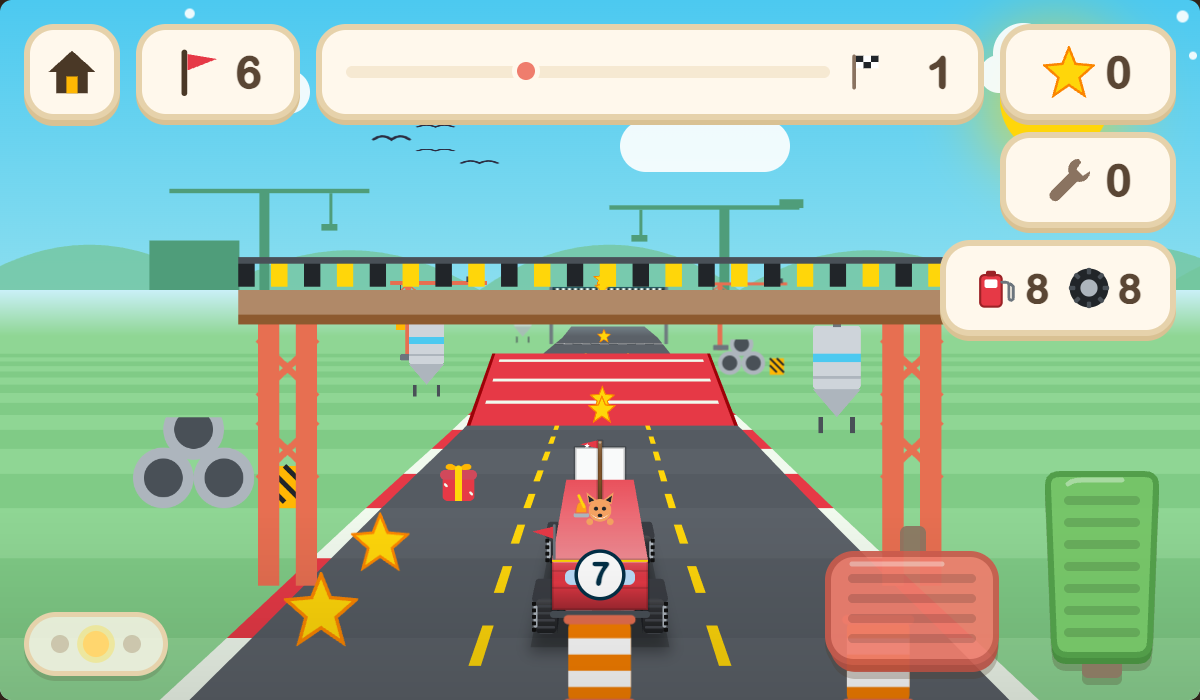
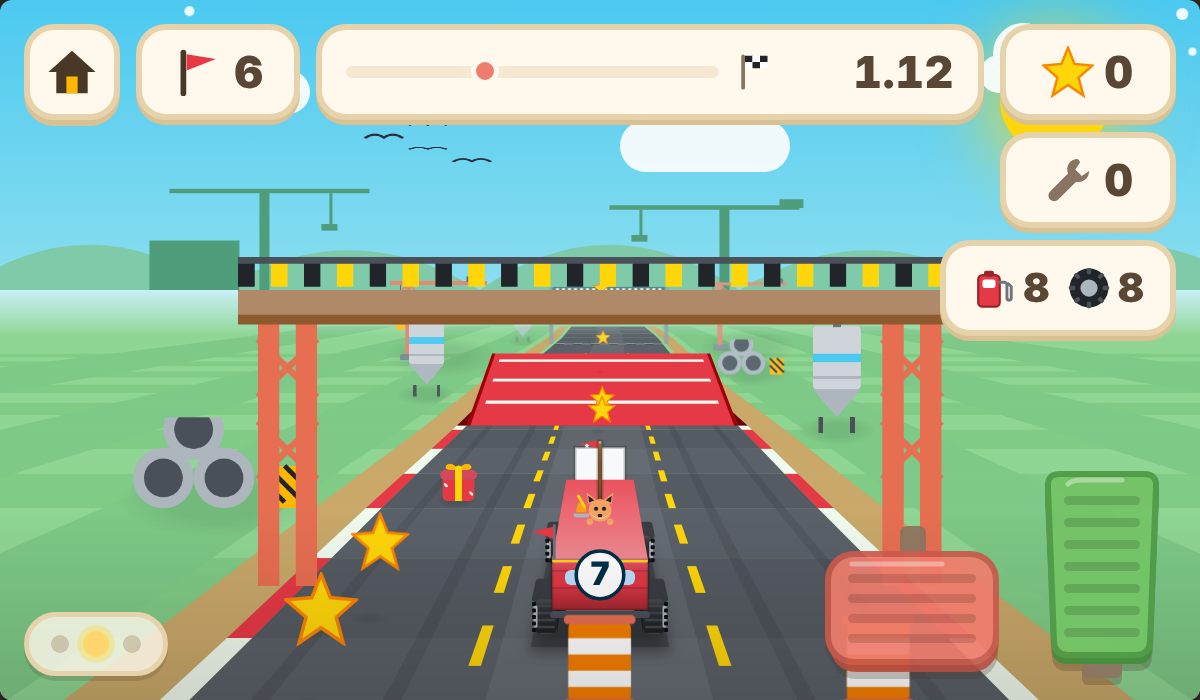
v13.3.0: the AAA round, integrated
Five squash-merged features (camera dynamics and impact juice, steering
yaw, prop shadows and haze, ground texture and ramp wedges, engine
voices with gears, pass-by doppler and adaptive music beds) with the
docs, README, task log and screenshots brought up to date and the suite
counts in tests/README.md re-baselined from the runner.
23 suites, 421/421, lint 0.

Claude-Session: https://claude.ai/code/session_016ck1aPGLVyXfjAcF2qTzon

diff --git a/index.html b/index.html
@@ -1736,7 +1736,7 @@ html, body { background: #2f241a; }               /* warm dark letterbox, was na
 /* ===== 0. VERSION ===== */
 /* Bumped with each release alongside package.json; shown as a tiny numeral row in the
    grown-ups (profile) panel. The update gate fingerprints the code itself, not this. */
-const APP_VERSION = "13.2.2";
+const APP_VERSION = "13.3.0";
 document.getElementById("appVersion").textContent = APP_VERSION;
 
 /* ============ 1. STAGE ============ */

diff --git a/tests/README.md b/tests/README.md
@@ -1,6 +1,6 @@
 # Vroom test suites
 
-Twenty-three Playwright regression suites (399 checks) that drive the real game in headless
+Twenty-three Playwright regression suites (421 checks) that drive the real game in headless
 Chromium. They are the gate for every change: CI runs them on each push and pull request.
 
 ## Run everything
@@ -27,11 +27,11 @@ playwright-core's download), `VROOM_URL` (use a server you already run instead o
 built-in one, e.g. `python3 -m http.server 4173` then
 `VROOM_URL=http://localhost:4173/index.html npm test`).
 
-- `verify.cjs` — garage/shop/economy/levels/map/persistence core loop, steering yaw (38)
-- `polish-check.cjs` — kid-UX round: locks, tags, magnet, headlights, celebrate, `prefers-reduced-motion` (decorative keyframes off, no confetti pieces, short iris) (16)
+- `verify.cjs` — garage/shop/economy/levels/map/persistence core loop, steering yaw (40)
+- `polish-check.cjs` — kid-UX round: locks, tags, magnet, headlights, celebrate, `prefers-reduced-motion` (decorative keyframes off, no confetti pieces, short iris) (19)
 - `damage-check.cjs` — damage/repair/upgrades/keyboard (20)
 - `free-check.cjs` — capsules, free drive, time tiers (14)
-- `feel-check.cjs` — game feel: dynamics, hit-stop, choreography, iPad shell (12)
+- `feel-check.cjs` — game feel: dynamics, hit-stop, choreography, iPad shell (18)
 - `worlds-check.cjs` — 12 worlds, movers, gravity, world map, premium content, the 13.3 ground painter (shoulder + field tones, road crown on all 12 worlds, ramp side walls, quad budget) (25)
 - `album-check.cjs` — sticker album: buddies, badges, photos with world backdrops + stamps, the peek card for photos and stickers, muddy flag (15)
 - `profile-check.cjs` — 3 kid profiles, save codes, QR round-trip via jsQR (14)
@@ -46,7 +46,7 @@ built-in one, e.g. `python3 -m http.server 4173` then
 - `number-check.cjs` — race number: the number tile leads the sticker tab (400, greyed when poor), keypad rules (two digits, leading zeros trimmed, backspace, clear), OK pays 400 and draws the roundel on the flank, sticker + number share the panel at 80% scale, rear view, same-number and broke-wallet rules, free removal, reload + v3 tail + 12.2 code decode, photo, malformed stored value dropped, 64px keys, the race car's painted slot (13; honours `VROOM_URL`)
 - `title-check.cjs`: start screen + daily gift: title scene active on boot (GO >= 180 stage px, car + emblem, avatar, zero text), pulsing gift badge on GO while unclaimed, car honk, GO to the garage, the capsule on the wall above the dice (88px at x=1086 / top 180), opening pays 15..40 stars or an unowned buddy with confetti and stamps `progress.lastGift`, a second open gives nothing, reload keeps it claimed, lastGift = yesterday brings it back, `?garage` and `vroom.skipTitle` skip the title, lastGift never rides in a save code, reduced motion skips the pop-ins (13; honours `VROOM_URL`)
 - `ghost-check.cjs` — ghost race: a first run stores a sampled trace, a replay spawns the translucent twin that follows it through the projector (lane and depth match the recording at a known time), slower runs keep the old ghost and faster ones replace it with the new-best flourish, the signed gap chip (hidden with no ghost), the twin fades after its own finish, ghosts survive a reload, stay out of the full save code and malformed ones are dropped (16; honours `VROOM_URL`)
-- `upkeep-check.cjs` — fuel + tires + shine: full gauges on a fresh save, the combined HUD chip that splits into red singles when a gauge is low, burn per unit of road (tread at half rate), no burn in free drive or the parade, dry-tank crawl speeds, bald-tire lane lag, hit scuffs tread, shine bonus (+50%) and its sticker, muddy = no shine, workbench fill-up / tire tiles with per-unit prices, partial fills, deny shakes, v3 save-code tail + tail-less decode, reload + pre-12.2 save defaults, the dice/map/GO column geometry (21; honours `VROOM_URL`)
+- `upkeep-check.cjs` — fuel + tires + shine: full gauges on a fresh save, the combined HUD chip that splits into red singles when a gauge is low, burn per unit of road (tread at half rate), no burn in free drive or the parade, dry-tank crawl speeds, bald-tire lane lag, hit scuffs tread, shine bonus (+50%) and its sticker, muddy = no shine, workbench fill-up / tire tiles with per-unit prices, partial fills, deny shakes, v3 save-code tail + tail-less decode, reload + pre-12.2 save defaults, the dice/map/GO column geometry (24; honours `VROOM_URL`)
 - `events-check.cjs`: surprise events on the map: a frozen calendar (`window.__today`) gives the same three picks across reloads and other dates move them; the sleeping dino sits on an unlocked, non-frontier level, naps mid-lane on that road (not hard, not soft), wakes on a bump or a honk with no damage and drops 5 bonus stars outside the level total; rainbow day only after level 30, finishing the marked level awards `p:rainbowshine` once (second finish no duplicate), the paint renders in both views, grows a 24th strip tile, rides the v3 save code and a reload; weather day forces the borrowed particles on every level of the badged world and nowhere else; the today chip shows the day number; no date = no events (23; honours `VROOM_URL`)
 - `course-check.cjs`: wild courses (v12.9): corkscrews on every world's corkscrew level and every finale from world 2 (two opposite twists from world 3), the roll math (0 / pi / 2pi, monotonic), stars only inside a twist (a helix of >= 8, no arch), level before it and rolling only inside, mid-twist the sky stays up and no sprite turns while the car itself is upside down, the whoosh in and the level landing after; hard turns on the 13 switchback / zigzag levels with chevron boards on each turn's outside verge and a squeal at speed; 9 roller levels of >= 3 big hills; mega ramps and hop chains, the one launch rule (standard ramp unchanged, mega capped), every level keeps a jump and no ramp crosses a twist, a real mega launch lands inside its zone; the speed-linked mixer drum (T2.3); reduced motion drops the roll and the drum, no ramp ever stacks on another or lands past the flags; a hill crest clips what stands behind it (23; honours `VROOM_URL`)
 - `life-check.cjs` — garage life + buddy reactions: the idle putter node (52 Hz square, 2 Hz LFO) runs only while the garage is active and follows quiet mode, buddy blink / yawn hooks on all 10 buddies, beacon / flag / booster / hover idle animations, wheel settle wobble on a new body or wheels, hood tap (opens, clank via a `tone` spy, closes, buddy hops, no honk), wheel tap spin, body tap still honks, >= 64px hit regions, chase-cam buddy cheer / duck / wave from the star-streak, `applyDamage` and `finishLevel` hooks, no-buddy no-ops, `prefers-reduced-motion` stops every idle animation (17; honours `VROOM_URL`)
@@ -63,11 +63,12 @@ click stability check.
 
 | Suite | Checks | Covers |
 |---|---|---|
-| `verify.cjs` | 38 | core loop: garage inventory and 64 px touch floor, shop/economy, level invariants, map, persistence, steering yaw views and bindings |
-| `polish-check.cjs` | 16 | kid-UX round: locks, price tags, magnet, headlights, celebrate choreography |
+| `verify.cjs` | 40 | core loop: garage inventory and 64 px touch floor, shop/economy, level invariants, map, persistence, steering yaw views and bindings |
+| `garage-check.cjs` | 19 | redesigned garage: control budget, category tabs and the shuffle at the tab row end, workbench strip order (wash first), GO and map, gift on the rhythm |
+| `polish-check.cjs` | 19 | kid-UX round: locks, price tags, magnet, headlights, celebrate choreography |
 | `damage-check.cjs` | 20 | damage tiers, repair, upgrades, keyboard controls |
 | `free-check.cjs` | 14 | capsules and prizes, free drive, time-medal tiers |
-| `feel-check.cjs` | 12 | game feel: body dynamics, hit-stop, celebrate pacing, iPad shell metas |
+| `feel-check.cjs` | 18 | game feel: body dynamics, hit-stop, celebrate pacing, iPad shell metas |
 | `worlds-check.cjs` | 25 | 12 worlds: level invariants, world hazards, movers, gravity, map, unlock chain, world bonus, golden capsule, premium shop, free-drive tour, ground painter (shoulder and field tones, crowned road on every world, ramp side walls, quad budget) |
 | `album-check.cjs` | 15 | sticker album: buddies, badges, world-backdrop photos, peek card, muddy flag |
 | `profile-check.cjs` | 14 | 3 kid profiles, save codes, scan-to-open QR decoded byte-exact with jsQR across version boundaries |
@@ -81,7 +82,7 @@ click stability check.
 | `course-check.cjs` | 23 | wild courses: corkscrews (roll math, helix, rendering, reduced motion), hard turns + chevrons, roller hills and crest occlusion, mega ramps and hop chains, the shared launch rule, the speed-linked mixer drum |
 | `title-check.cjs` | 13 | start screen: title scene on boot, 180 px GO, gift badge, honk; daily gift: once-a-day capsule above the dice, 15..40 stars or an unowned buddy, claimed state across reloads, next-day return, the `?garage` / `vroom.skipTitle` skips, reduced motion |
 | `ghost-check.cjs` | 16 | ghost race: trace recording, replay sprite follows the trace, slower keeps / faster replaces, gap chip, fade at the line, reload, save-code exclusion, malformed ghost dropped |
-| `upkeep-check.cjs` | 21 | fuel and tire wear, the combined HUD chip and its low-gauge split, dry-tank crawl, bald-tire grip, shine bonus, workbench fill-up and tire tiles, save-code tail, legacy defaults, garage column geometry |
+| `upkeep-check.cjs` | 24 | fuel and tire wear, the combined HUD chip and its low-gauge split, dry-tank crawl, bald-tire grip, shine bonus, workbench fill-up and tire tiles, save-code tail, legacy defaults, garage column geometry |
 | `events-check.cjs` | 23 | surprise events: date-seeded picks, sleeping dino marker + road prop (wake, 5 bonus stars, no damage), rainbow day + the secret rainbow-shine paint (once, both views, save code, reload), weather day particles, today chip, no-date fallback |
 | `life-check.cjs` | 17 | garage life: idle putter lifecycle and quiet mode, buddy blink / yawn, animated extras, wheel settle, hood and wheel tap toys, road buddy cheer / duck / wave hooks, reduced motion |
 | `fairness-check.cjs` | 9 | two headless bots drive all 120 levels through the real collision code: "smart" must finish every level with ≥45% of the stars and ≤4 hard hits; "lazy toddler" (centre lane, gas only) must finish every level and find ≥15% of the stars on levels 1-20; world 1 stays gentle. `--table` prints per-level results, `--hits` each hard hit |

diff --git a/docs/ARCHITECTURE.md b/docs/ARCHITECTURE.md
@@ -97,7 +97,7 @@ head-on in v10, so the level generator, physics and collision code never changed
 | Constant | Value | Meaning |
 |---|---|---|
 | `HORIZON` | 290 | vanishing line on the stage |
-| `CAM_D` | 520 | camera distance behind the car; scale 1 at the car |
+| `CAM_D` | 520 (`CAM_D0`) | camera distance behind the car; scale 1 at the car. Per frame `renderWorld` sets `CAM_D = CAM_D0 / fovK` (the lens widens up to 7% at full speed, 13.3) and restores it |
 | `CAM_H` | 360 | camera height; the car's ground line lands at y=650 |
 | `LANE_W` | 240 | lane spacing at the car's depth |
 | `CAM_FOLLOW` | 0.6 | how far the camera slides with a lane change (the car moves the other 40%) |
@@ -113,7 +113,22 @@ sy = HORIZON + (CAM_H + camElev − elevAt(carX + z) − h) · s
 
 (`proj()` for the canvas ground plane, the same math inline for sprites). Sprites get
 `translate(sx, sy) scale(s·k)`, a z-index of `20000 − z` (hit things pop over the car at
-25000), and opacity fading over the last `FADE` units.
+25000), and opacity fading over the last `FADE` units. Each sprite wrapper also holds a blob
+shadow (`div.shd`, radial gradient sized from `SHADOW_W` or the art width, smaller and fainter
+with `h`, none for `NO_SHADOW` types) and a haze overlay (`div.hz`, the world's haze colour
+masked by the sprite's own SVG through one shared stylesheet rule per art string, stepping from
+35% of `DRAW_FAR` to 0.45 at the fade band); both ride the transform and the crest clip.
+
+Camera dynamics (13.3): `camX` follows the lane target through a damped spring (`CAM_W`,
+`CAM_Z`, settles in about 350 ms, so the car visibly swings ahead of the view), `fovK` eases
+toward `1 + FOV_PUNCH` with speed, a landing dips the view (`DIP_*`, scaled by fall speed) and a
+hit runs a decaying 2D shake (`startShake(dmg)`, applied by `applyCamFx` as one transform on
+`#roadCanvas` and `#world`, never the HUD). `camTick(dt)` runs all of it before `renderWorld`;
+under reduced motion it snaps the follow and zeroes the rest. The car itself yaws toward the
+lane it heads for while `laneVis` glides (`tickYaw`, `carYaw` up to `YAW_MAX = 0.18`): `vp`
+rotates car-space x/z about the rear axle (`vrot`) before the perspective, `faceVis` picks the
+visible side faces from the real camera position, and the front tires steer with it;
+`setCarView(q, ys)` caches views on a quarter-lane x yaw-step grid. No tilt, skew or roll.
 
 ### Curves
 
@@ -177,9 +192,15 @@ the sky and a dip hides it. World amplitudes: 0 for construction, rain and beach
 ### The ground plane
 
 `drawRoad(carX)` repaints `#roadCanvas` (2x backing store) every frame: sky haze at the
-horizon, grass bands alternating every `SEG = 160` units, asphalt, rumble strips, lane
-dashes, sloped ramps, the checkered finish stripe and the ground shadow under a jumping car,
-all as `quad()`s of four `proj()`ed corners with the world's `ROAD_PAL[w]` palette. The road paints back to
+horizon, grass bands alternating every `SEG = 160` units, lateral field strips in two extra
+tones (`fields` extents mirrored both sides: crop rows on the farm, dune ridges, drifts, lava
+cracks), a dirt shoulder outside each rumble strip, asphalt with a crown highlight down the
+centre and faint wheel-track wear in the outer lanes, lane dashes, sloped ramps with a
+camera-facing side wall and a lip shadow, the checkered finish stripe with a near edge, and the
+ground shadow under a jumping car, all as `quad()`s (batched into one fill per tone where they
+share a colour; `roadQuadN` counts subpaths, budget 700) of four `proj()`ed corners with the
+world's `ROAD_PAL[w]` palette. `groundTones(P)` derives the new keys (`shoulder`, `field`,
+`fields`, `crown`, `wear`) from the base palette once per world when a pack does not set them. The road paints back to
 front, so a crest hides the road behind it on its own; everything else is clipped against `OCC`, a per-frame
 running minimum of the ground's screen y by depth (`buildOcc`, `occAt(z)`): `placeSprite` cuts a sprite at the
 crest line with a `clip-path` in its own pre-transform pixels, and ramps, the finish stripe and the hoops draw
@@ -299,10 +320,22 @@ workhorse (an oscillator with a frequency glide and an exponential decay); `nois
 filtered noise. `sfx.*` are the UI/world sounds, `HONKS[body]` the per-body horn voices.
 Quiet mode multiplies every voice by `volScale() = 0.22`.
 
-The engine (`engineStart`/`engineSet`) is two sawtooth oscillators detuned 9 cents through a
-low-pass swept from 260 Hz to 1360 Hz with speed, plus a looping noise buffer through a
-band-pass at 1100 Hz that fades in over the top 40% of the speed range as wind; all
+The engine (`engineStart`/`engineSet(v, gas, brake)`) is a voice from `ENGINE_VOICES` picked
+by body family (`ENGINE_FAMILY`: trucks, race cars, tractors, whining rockets and UFOs, a
+default): a sine sub, two detuned saws through a resonant low-pass (the growl, with a chug LFO
+for tractors), a high harmonic and wind from the shared noise buffer. Speed runs through 3-4
+virtual gears with hysteresis (`GEAR_HYST`): a shift drops the pitch back with a throttle dip
+and a clunk, braking shifts down, the gas opens the filter. `sfx.passby` plays a panned falling
+whoosh when a sizeable prop passes the bumper at speed (`passByTick`, rate-limited). All
 parameters move with `setTargetAtTime` to avoid zipper noise.
+
+Music: `MUSIC[w]` is a per-world bed (bpm, root, bass / arp / percussion step strings in the
+jingle's note vocabulary) scheduled with lookahead on the audio clock (`musicPump` every
+`MUSIC_PUMP_MS`, `MUSIC_LOOKAHEAD` ahead, first note after the jingle). The bass always plays;
+the arp and percussion fade in above about 60% speed; a riser sweeps while airborne or in a
+corkscrew; the bed ducks to `MUSIC_DUCK` at the finish, stops in `worldAudioStop`, and is silent
+in quiet mode. Ambience beds drop to `AMB_UNDER_MUSIC` while it plays. The `MIX` comment in the
+audio section documents every gain stage.
 
 Per world: `JINGLES[w]` (a start sting), `AMBIENCE[w]` (a looping bed built from `ambNoise`,
 `ambLFO`, `ambEvery`, `ambPing`), `STAR_SCALES[w]` + `STAR_BASE[w]` (the ratio ladder each

diff --git a/README.md b/README.md
@@ -25,7 +25,7 @@
 
 - **Build it, then drive it.** 23 bodies, 14 wheel sets, 24 paints (one of them a secret), 8 flank decals, 12 bolt-on extras, a race number you type on a keypad, and 10 buddies, every one of them drawn in code. The exact car you build in the garage is the car you see from behind on the road, party hat and all.
 - **Twelve worlds, 120 levels.** Construction, sunset, night, rain, snow, desert, beach, space, volcano, candy land, deep sea and sky kingdom. Each is a place with its own roadside, weather, hazards, hills, jingle, ambience and star-chime scale.
-- **A road that bends and rolls.** An OutRun-style chase cam with eased curvature stretches and cosine hills, three lanes, a gas pedal, a brake pedal, and steering by swiping the road. Corkscrews send the car barrel-rolling through a tunnel of striped hoops, hard turns come with red chevron boards and howling tires, roller levels stack big hills back to back, and the jumps run from little green hop kickers to a big red mega ramp.
+- **A road that bends and rolls.** An OutRun-style chase cam with eased curvature stretches and cosine hills, three lanes, a gas pedal, a brake pedal, and steering by swiping the road. The camera swings through lane changes, widens with speed and shakes on a hit; the car turns its nose into the lane it heads for; every prop stands on its own shadow and fades into the haze; corkscrews send the car barrel-rolling through a tunnel of striped hoops, hard turns come with red chevron boards and howling tires, roller levels stack big hills back to back, and the jumps run from little green hop kickers to a big red mega ramp.
 - **Levels with a signature.** Every level is sequenced from a library of 40 formations so level 7 feels like "the snake-trail level" and level 8 like "the barrel-bowling level". Two headless bots drive all of them in the test suite to prove each is fair.
 - **Race yourself.** Your fastest run on every level rides along as a translucent ghost next time, with a gap chip and a bigger medal when you beat it.
 - **Something new every day.** A gift capsule in the garage once a day, and three surprises on the map seeded from the date: a sleeping dino to honk awake, a rainbow day with a secret paint, a weather day. The garage car idles, blinks and yawns; tap the hood or a wheel.
@@ -114,7 +114,7 @@ python3 -m http.server 4173     # then open http://localhost:4173/
 
 There is no build. Edit `index.html`, reload.
 
-The test suite is 23 Playwright suites (399 checks) that drive the real game in headless Chromium: economy, physics, worlds, album, profiles, save codes, the wash, fuel and tires, the race number, the title screen and daily gift, the ghost race, garage life, the map surprises, the update gate, and the fairness bots that drive all 120 levels.
+The test suite is 23 Playwright suites (421 checks) that drive the real game in headless Chromium: economy, physics, worlds, album, profiles, save codes, the wash, fuel and tires, the race number, the title screen and daily gift, the ghost race, garage life, the map surprises, the update gate, and the fairness bots that drive all 120 levels.
 
 ```bash
 npm ci                                   # playwright-core + jsqr, test-only

diff --git a/TASKS.md b/TASKS.md
@@ -146,6 +146,14 @@
 
 - [x] T25.4: Blob shadows under every prop (`div.shd` in the sprite wrapper: radial gradient, footprint from `SHADOW_W` or the art width, fainter and smaller with height, none for flat props, arches or the ghost) and atmospheric haze on far sprites (`div.hz` masked by the sprite's own SVG via one shared stylesheet rule per art string, stepping to 0.45 of the world haze colour at the fade band). Both ride the crest clip-path. polish-check 19. 23 suites, 398/398.
 
+## v13.3.0 (2026-10-09, user-directed: "implement all" of the AAA list, rounds 2 to 5)
+
+- [x] T25.1: Camera dynamics and impact juice. Damped lateral follow (`CAM_W`, `CAM_Z`), lens widening with speed (`fovK`, `CAM_D = CAM_D0 / fovK` per frame), landing dip, decaying 2D hit shake on the road layers only (`startShake`, `applyCamFx`), hit-stop scaled by damage (70 / 110 ms), debris chips in the prop's colours, wrench-chip bump, landing squat and dust, star pop with three sparks to the star chip. All off under reduced motion. feel-check 18.
+- [x] T25.2: Steering yaw. `vp` rotates car space about the rear axle by `carYaw` (`vrot`, `faceVis`), front tires steer, `tickYaw` eases toward `YAW_MAX` 0.18 while `laneVis` glides, views cached per quarter-lane x yaw step. No tilt, skew or roll. verify 40.
+- [x] T25.3: Ground texture and ramp wedges. Shoulders, field strips (`fields`), crown and wheel wear on every world via `groundTones` defaults with hand tuning for construction, farm, snow, desert, volcano and candy; ramps get a side wall and lip shadow, the finish stripe a near edge; quads batched per tone (`roadQuadN` <= 700). worlds-check 25.
+- [x] T25.5: Audio. `ENGINE_VOICES` by body family with virtual gears, throttle and clunks; `sfx.passby` doppler on passing props; `MUSIC[w]` adaptive beds per world (bass always, arp and percussion with speed, riser in the air and in corkscrews, ducked at the finish, silent in quiet mode) with a documented `MIX`. world-check-audio-events 26.
+- Five worktree agents, squash-merged; 23 suites, 421/421, lint 0.
+
 ## Backlog (v2 candidates, from kid-testing)
 
 - [ ] T2.1: Real-device iOS pass: audio unlock, multi-touch, add-to-home-screen icon.
